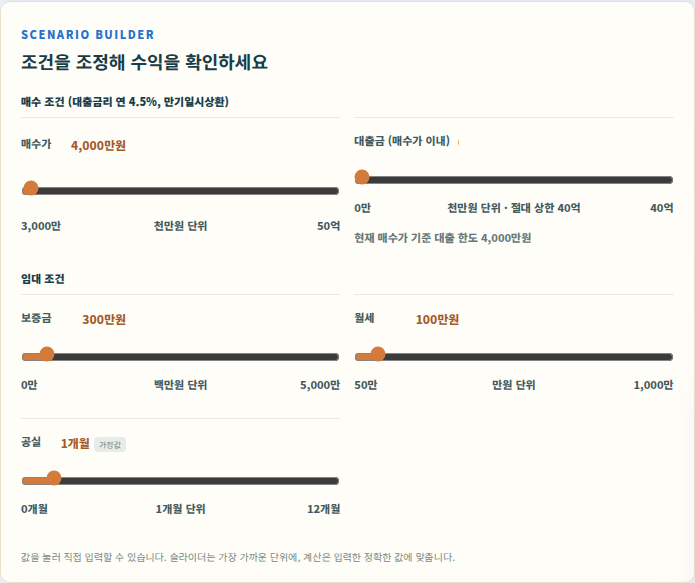
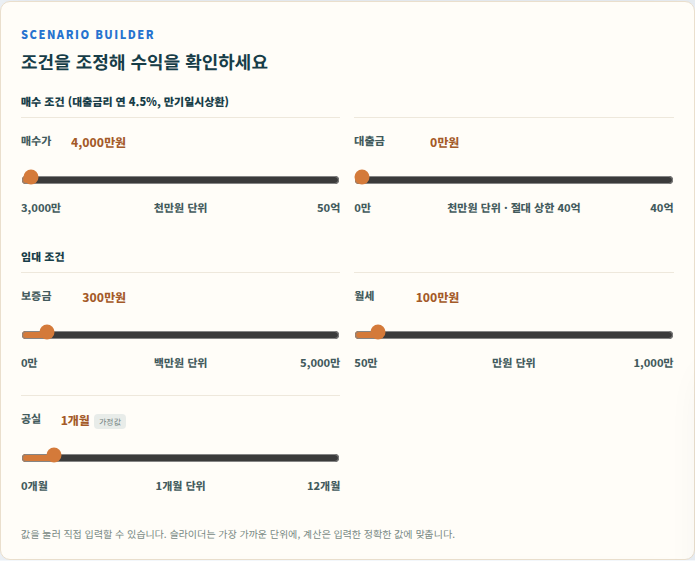
Refactor slider analysis logic and update test assets
Replit-Commit-Author: Agent

diff --git a/static/js/rental-analysis.js b/static/js/rental-analysis.js
@@ -130,8 +130,7 @@
   }
   function clampRentalValue(field, value) {
     var kind = rentalHardKind(field);
-    return kind ? window.analysisSliderUtils.clampHard(kind, value,
-      field === "rentalLoanAmount" ? n("rentalPurchasePrice") : undefined) : Number(value);
+    return kind ? window.analysisSliderUtils.clampHard(kind, value) : Number(value);
   }
   function setRentalInputError(field, message) {
     var error = document.querySelector('[data-rental-input-error="' + field + '"]');
@@ -141,7 +140,7 @@
   }
   function rentalInputErrorMessage(field) {
     if (field === "rentalMonthlyRent") return "월세는 1~1,000만원 범위로 입력하세요";
-    if (field === "rentalLoanAmount") return "대출금은 매수가 이내·절대 상한 40억으로 입력하세요.";
+    if (field === "rentalLoanAmount") return "대출금은 0~40억 범위로 입력하세요.";
     return "입력값이 허용 범위를 벗어났습니다.";
   }
   function rentalLimitText(field, value) {
@@ -194,29 +193,6 @@
       : PRICE_SLIDER_KNEE + (tick - LOAN_SLIDER_KNEE)
         / (LOAN_SLIDER_TICKS - LOAN_SLIDER_KNEE) * (LOAN_SLIDER_CAP - PRICE_SLIDER_KNEE);
     return Math.round(amount / 1000) * 1000;
-  }
-  function updateLoanCapNote() {
-    var note = document.querySelector("[data-rental-loan-cap]");
-    if (note) note.textContent = n("rentalPurchasePrice") > 0
-      ? "현재 매수가 기준 대출 한도 " + rentalLimitText("rentalLoanAmount", loanMaximum()) + "원"
-      : "";
-  }
-  function limitLoanAfterPurchaseChange() {
-    var cap = loanMaximum();
-    if (n("rentalLoanAmount") <= cap) return;
-    $("rentalLoanAmount").value = String(cap);
-    lastValidRentalInputs.rentalLoanAmount = cap;
-    var range = sliderInputs.rentalLoanAmount;
-    if (range) {
-      range.value = String(loanSliderPosition(cap));
-      range.setAttribute("aria-valuetext", formatInputValue("rentalLoanAmount", cap));
-    }
-    var button = document.querySelector('[data-rental-value="rentalLoanAmount"]');
-    if (button && !button.querySelector("input")) {
-      button.textContent = formatInputValue("rentalLoanAmount", cap);
-    }
-    setRentalInputError("rentalLoanAmount",
-      "매수가가 낮아져 대출금을 " + rentalLimitText("rentalLoanAmount", cap) + "원으로 조정했습니다.");
   }
   function updateRentalLimitLabels(bounds) {
     Object.keys(bounds).forEach(function (field) {
@@ -310,7 +286,6 @@
     var utils = window.analysisSliderUtils;
     if (!utils) throw new Error("공통 슬라이더 설정을 불러오지 못했습니다.");
     var purchase = purchaseBounds();
-    var purchaseValue = n("rentalPurchasePrice");
     var depositMax = utils.HARD_CAPS.deposit[1];
     var rent = rentCenterBase == null ? null : utils.rentBounds(rentCenterBase);
     if (rent) {
@@ -320,21 +295,17 @@
     }
     return {
       rentalPurchasePrice: purchase,
-      rentalLoanAmount: purchase && purchaseValue > 0 ? {
+      rentalLoanAmount: {
         min: 0,
         max: LOAN_SLIDER_TICKS,
         step: 1,
-      } : null,
-      rentalDeposit: purchase && purchaseValue > 0 ? {
+      },
+      rentalDeposit: purchase && n("rentalPurchasePrice") > 0 ? {
         min: 0, max: depositMax, step: 100,
       } : null,
       rentalMonthlyRent: rent,
       rentalVacancyMonths: { min: 0, max: 12, step: 1 },
     };
-  }
-  function loanMaximum() {
-    var purchase = n("rentalPurchasePrice");
-    return Math.max(0, Math.min(purchase, 400000));
   }
   function syncSliderBounds(expandField, skipField) {
     var utils = window.analysisSliderUtils;
@@ -343,9 +314,7 @@
       "rentalVacancyMonths", "rentalLoanAmount"].forEach(function (field) {
       var value = $(field).value;
       if (value !== "" && clampRentalValue(field, value) == null) {
-        var corrected = field === "rentalLoanAmount" && n("rentalPurchasePrice") > 0
-          ? Math.min(Number(value), loanMaximum())
-          : lastValidRentalInputs[field];
+        var corrected = lastValidRentalInputs[field];
         $(field).value = corrected == null ? "" : String(corrected);
         if (corrected != null) lastValidRentalInputs[field] = corrected;
       } else if (value !== "") {
@@ -380,14 +349,11 @@
         range.setAttribute("aria-valuetext", formatInputValue(field, amount));
       }
     });
-    var loanCap = loanMaximum();
-    if (n("rentalLoanAmount") > loanCap) $("rentalLoanAmount").value = String(loanCap);
     Object.keys(bounds).forEach(function (field) {
       var button = document.querySelector('[data-rental-value="' + field + '"]');
       if (button) button.textContent = formatInputValue(field, $(field).value);
     });
     updateRentalLimitLabels(bounds);
-    updateLoanCapNote();
     var buyHeading = document.querySelector("#rentalSliders .rental-buy-heading");
     if (buyHeading) buyHeading.textContent = "매수 조건 (대출금리 연 " + formatInputValue("rate", n("rentalLoanRate")).replace("만원", "%")
       + ", " + $("rentalLoanMethod").selectedOptions[0].text + ")";
@@ -432,7 +398,6 @@
       var changedField = field;
       sliderChangeField = "";
       var dependentChange = changedField === "rentalPurchasePrice" || changedField === "rentalDeposit";
-      if (dependentChange) limitLoanAfterPurchaseChange();
       if (!directEntry && dependentChange) syncSliderBounds(null, changedField);
       updateRentalUrl();
       scheduleCalculate();
@@ -451,7 +416,6 @@
       + (field === "rentalVacancyMonths" ? '<i class="rental-assumption-badge" data-vacancy-assumption>가정값</i>' : '')
       + '</span></div><input class="rental-range" type="range" id="rentalSlider' + field.slice(6) + '" data-rental-slider="' + field + '" min="0" max="100" step="' + step + '" value="0" aria-label="' + label + '">'
       + '<span class="rental-range-limits" data-rental-limits="' + field + '"><span>—</span><small>' + units[field] + '</small><span>—</span></span>'
-      + (field === "rentalLoanAmount" ? '<span class="rental-loan-cap" data-rental-loan-cap></span>' : '')
       + '<span class="rental-slider-input-error" data-rental-input-error="' + field + '" role="alert" hidden></span></div>';
   }
   function setupRentalSliders() {
@@ -460,7 +424,7 @@
     host.innerHTML = '<div class="rental-panel-title"><div><span class="eyebrow">SCENARIO BUILDER</span><h3>조건을 조정해 수익을 확인하세요</h3></div></div>'
       + '<section class="rental-slider-group"><h3 class="rental-buy-heading">매수 조건</h3><div class="rental-slider-list">'
       + makeSliderRow("rentalPurchasePrice", "매수가", 1)
-      + makeSliderRow("rentalLoanAmount", "대출금 (매수가 이내)", 1000)
+      + makeSliderRow("rentalLoanAmount", "대출금", 1000)
       + '</div></section><section class="rental-slider-group"><h3>임대 조건</h3><div class="rental-slider-list">'
       + makeSliderRow("rentalDeposit", "보증금", 100)
       + makeSliderRow("rentalMonthlyRent", "월세", 1)
@@ -481,7 +445,7 @@
       var field = range.dataset.rentalSlider;
       delete invalidRentalUrlFields[field];
       var requested = field === "rentalLoanAmount"
-        ? Math.min(loanSliderAmount(range.value), Math.floor(loanMaximum() / 1000) * 1000)
+        ? loanSliderAmount(range.value)
         : field === "rentalPurchasePrice"
           ? purchaseSliderAmount(range.value, sliderBounds[field])
         : range.value;
@@ -509,8 +473,6 @@
       var valueButton = document.querySelector('[data-rental-value="' + field + '"]');
       if (valueButton) valueButton.textContent = formatInputValue(field, safeValue);
       if (field === "rentalPurchasePrice") {
-        limitLoanAfterPurchaseChange();
-        updateLoanCapNote();
         updateAcquisitionCosts();
         updateEstimatedTax();
       }
@@ -533,8 +495,7 @@
       input.enterKeyHint = "done";
       input.step = field === "rentalVacancyMonths" ? "0.5" : "1";
       input.min = hardKind === "loan" ? "0" : hardBounds ? String(hardBounds[0]) : "0";
-      input.max = hardKind === "loan" ? String(loanMaximum())
-        : hardBounds ? String(hardBounds[1]) : "";
+      input.max = hardBounds ? String(hardBounds[1]) : "";
       input.value = $(field).value;
       input.setAttribute("aria-label", field === "rentalVacancyMonths" ? "연간 공실 개월" : "금액(만원)");
       setRentalInputError(field, "");
@@ -564,7 +525,6 @@
           rentCenterEdited = true;
           if (field === "rentalVacancyMonths") vacancyAssumed = false;
           if (field === "rentalPurchasePrice") {
-            limitLoanAfterPurchaseChange();
             updateAcquisitionCosts();
             updateEstimatedTax();
           }
@@ -1458,8 +1418,7 @@
         return;
       }
       var kind = rentalHardKind(field);
-      var normalized = kind ? window.analysisSliderUtils.clampHard(kind, value,
-        field === "rentalLoanAmount" ? n("rentalPurchasePrice") : undefined)
+      var normalized = kind ? window.analysisSliderUtils.clampHard(kind, value)
         : Number.isFinite(Number(value)) && Number(value) >= 0 ? Number(value) : null;
       if (normalized == null) {
         invalidKeys.push(key);

diff --git a/tests/rental_redesign_browser_test.js b/tests/rental_redesign_browser_test.js
@@ -293,8 +293,9 @@ async function run() {
       && initial.sliders.rentalLoanAmount.max === 1000
       && initial.sliders.rentalLoanAmount.step === 1,
     `시세 5,000만원 매수가 가상 눈금·간격이 잘못되었습니다: ${JSON.stringify(initial.sliders.rentalPurchasePrice)}`);
-    expect((await page.locator("[data-rental-loan-cap]").textContent()).includes("4,000만원"),
-      "현재 매수가에 따른 대출 한도가 표시되지 않았습니다.");
+    expect(!await page.locator("[data-rental-loan-cap]").count()
+      && !(await page.locator('[data-rental-row="rentalLoanAmount"]').textContent()).includes("매수가 이내"),
+      "대출금에 매수가 이내 제한 안내가 남아 있습니다.");
     expect(initial.sliders.rentalDeposit.max === 5000 && initial.sliders.rentalDeposit.step === 100,
       `보증금 상한·간격이 잘못되었습니다: ${JSON.stringify(initial.sliders.rentalDeposit)}`);
     expect(initial.sliders.rentalMonthlyRent.min === 50
@@ -481,9 +482,9 @@ async function run() {
     expect(await page.locator('[data-rental-slider="rentalLoanAmount"]').getAttribute("aria-valuetext")
       === "1,000만원", "대출금 가로바의 천만원 단위 값과 접근성 안내가 맞지 않습니다.");
     await setValueFromLabel(page, "rentalLoanAmount", 4500);
-    expect(Number(await page.locator("#rentalLoanAmount").inputValue()) === 1000
-      && (await page.locator('[data-rental-input-error="rentalLoanAmount"]').textContent()).includes("매수가 이내"),
-    "매수가를 초과한 대출금 직접입력을 거부하고 이유를 표시해야 합니다.");
+    expect(Number(await page.locator("#rentalLoanAmount").inputValue()) === 4500
+      && !(await page.locator('[data-rental-input-error="rentalLoanAmount"]').textContent()),
+    "매수가보다 큰 대출금도 직접 입력할 수 있어야 합니다.");
     await page.waitForTimeout(400);
     await setValueFromLabel(page, "rentalLoanAmount", 1500);
     await page.waitForFunction(() => window.__rentalAnalysisResult?.loan === 1500);
@@ -504,7 +505,7 @@ async function run() {
       max: document.querySelector('[data-rental-slider="rentalLoanAmount"]').max,
     }));
     expect(JSON.stringify(loanAfterPurchaseDrag) === JSON.stringify(loanBeforePurchaseDrag),
-      `매수가를 움직일 때 한도 이내의 대출금 바가 따라 움직였습니다: ${JSON.stringify({
+      `매수가를 움직일 때 대출금 바가 따라 움직였습니다: ${JSON.stringify({
         before: loanBeforePurchaseDrag, after: loanAfterPurchaseDrag,
       })}`);
     await setValueFromLabel(page, "rentalPurchasePrice", 4000);
@@ -529,15 +530,26 @@ async function run() {
     });
     await page.waitForTimeout(400);
     await setValueFromLabel(page, "rentalPurchasePrice", 2000);
-    const loanCap = await page.evaluate(() => ({
+    const independentLoan = await page.evaluate(() => ({
       purchase: Number(document.getElementById("rentalPurchasePrice").value),
       loan: Number(document.getElementById("rentalLoanAmount").value),
       max: Number(document.querySelector('[data-rental-slider="rentalLoanAmount"]').max),
     }));
-    expect(loanCap.purchase === 2000 && loanCap.loan === 2000 && loanCap.max === 1000,
-      `매입가 하향 시 대출 한도가 매수가 이내로 조정되지 않았습니다: ${JSON.stringify(loanCap)}`);
-    expect((await page.locator('[data-rental-input-error="rentalLoanAmount"]').textContent()).includes("매수가가 낮아져"),
-      "매수가 변경으로 대출금이 낮아진 이유를 표시해야 합니다.");
+    expect(independentLoan.purchase === 2000 && independentLoan.loan === 400000
+      && independentLoan.max === 1000,
+      `매입가 하향 시 대출금 40억이 유지되지 않았습니다: ${JSON.stringify(independentLoan)}`);
+    expect(!(await page.locator('[data-rental-input-error="rentalLoanAmount"]').textContent()),
+      "매수가 하향으로 대출 제한 오류가 표시되면 안 됩니다.");
+    await page.locator('[data-rental-slider="rentalLoanAmount"]').evaluate((element) => {
+      element.value = "333";
+      element.dispatchEvent(new Event("input", { bubbles: true }));
+      element.dispatchEvent(new Event("change", { bubbles: true }));
+    });
+    expect(Number(await page.locator("#rentalPurchasePrice").inputValue()) === 2000
+      && Number(await page.locator("#rentalLoanAmount").inputValue()) === 50000
+      && await page.locator('[data-rental-slider="rentalLoanAmount"]').getAttribute("aria-valuetext") === "5억원"
+      && await page.locator('[data-rental-value="rentalLoanAmount"]').textContent() === "5억원",
+    "매수가 2,000만원이어도 대출금 바의 1/3 지점에서 5억원을 선택·표시해야 합니다.");
 
     const vacancySlider = page.locator('[data-rental-slider="rentalVacancyMonths"]');
     await vacancySlider.evaluate((element) => {
@@ -750,6 +762,18 @@ async function run() {
       && Number(await purchaseTrack.inputValue()) > 300
       && await purchaseTrack.getAttribute("max") === "900",
     "정확한 매수가 직접입력은 유지하고 바 위치만 5억 이후 구간에 맞춰야 합니다.");
+    await setValueFromLabel(page, "rentalLoanAmount", 400001);
+    expect(Number(await page.locator("#rentalLoanAmount").inputValue()) === 400000
+      && (await page.locator('[data-rental-input-error="rentalLoanAmount"]').textContent()).includes("40억"),
+    "대출금 직접입력은 40억까지만 허용해야 합니다.");
+    const independentUrl = new URL(firstUrl);
+    independentUrl.searchParams.set("r_loan", "50000");
+    await page.goto(independentUrl.toString(), { waitUntil: "domcontentloaded" });
+    await waitForRental(page);
+    expect(Number(await page.locator("#rentalPurchasePrice").inputValue()) === 4000
+      && Number(await page.locator("#rentalLoanAmount").inputValue()) === 50000
+      && Number(await page.locator('[data-rental-slider="rentalLoanAmount"]').inputValue()) === 333,
+    "공유 링크에서도 매수가보다 큰 대출금 5억원이 복원되어야 합니다.");
     if (failures.length) throw new Error(`임대수익 개편 회귀 실패:\n- ${failures.join("\n- ")}`);
     console.log("임대수익 개편 브라우저 회귀 테스트 통과");
   } finally {

diff --git a/tests/slider_utils_test.js b/tests/slider_utils_test.js
@@ -40,6 +40,7 @@ assert.equal(utils.formatMan(32), "32만원");
 
 for (const [kind, min, max] of [
   ["purchase", 100, 500000],
+  ["loan", 0, 400000],
   ["deposit", 0, 5000],
   ["rent", 1, 1000],
   ["vacancy", 0, 12],
@@ -55,12 +56,8 @@ for (const [kind, min, max] of [
   assert.equal(utils.clampHard(kind, min - 1), null, `${kind} rejects below minimum`);
   assert.equal(utils.clampHard(kind, max + 1), null, `${kind} rejects above maximum`);
 }
-assert.equal(utils.clampHard("loan", 0, 5000), 0);
-assert.equal(utils.clampHard("loan", 5000, 5000), 5000);
-assert.equal(utils.clampHard("loan", 5001, 5000), null);
-assert.equal(utils.clampHard("loan", 400000, 500000), 400000);
-assert.equal(utils.clampHard("loan", 400001, 500000), null);
-assert.equal(utils.clampHard("loan", 1, 0), null);
+assert.equal(utils.clampHard("loan", 50000, 4000), 50000, "loan is independent of purchase");
+assert.equal(utils.clampHard("loan", 400000, 0), 400000);
 for (const invalid of ["", null, undefined, "NaN", "Infinity", -Infinity, NaN]) {
   assert.equal(utils.clampHard("rent", invalid), null, `rent rejects ${String(invalid)}`);
 }

diff --git a/static/js/slider-utils.js b/static/js/slider-utils.js
@@ -3,6 +3,7 @@
 
   var HARD_CAPS = Object.freeze({
     purchase: Object.freeze([100, 500000]),
+    loan: Object.freeze([0, 400000]),
     deposit: Object.freeze([0, 5000]),
     rent: Object.freeze([1, 1000]),
     vacancy: Object.freeze([0, 12]),
@@ -12,8 +13,8 @@
     mgmtFee: Object.freeze([0, 50]),
   });
 
-  function clampHard(kind, value, purchasePrice) {
-    var bounds = kind === "loan" ? [0, Math.min(400000, Number(purchasePrice))] : HARD_CAPS[kind];
+  function clampHard(kind, value) {
+    var bounds = HARD_CAPS[kind];
     if (!bounds) throw new Error("알 수 없는 슬라이더 항목: " + kind);
     if (value === "" || value === null || value === undefined) return null;
     var parsed = Number(value);

diff --git a/.agents/memory/analysis-slider-input-gates.md b/.agents/memory/analysis-slider-input-gates.md
@@ -15,17 +15,11 @@ description: 임대·운영 분석의 URL 복원 상한과 월세 중심 고정 
 
 **How to apply:** 종속 슬라이더 갱신과 범위 중심 갱신을 별도 이벤트로 취급하고, 반복 드래그·매수가 변경 회귀 테스트를 유지한다.
 
-대출금은 표시된 절대 상한보다 매수가가 작으면 매수가까지만 선택·입력할 수 있다.
+임대·운영 분석의 한 가로바를 움직일 때 다른 가로바의 값과 범위는 유지한다. 특히 대출금은 매수가와 독립적으로 0~40억까지 허용한다.
 
-**Why:** 사용자가 절대 상한을 표시하면서도 매수가 미만일 때에는 대출금을 매수가 이내로 제한하는 방식을 명시적으로 선택했다.
+**Why:** 사용자가 가로바 간 자동 영향을 없애달라고 요청했으며, 대출금이 5억 눈금에서 매수가 때문에 잘리는 것을 보고 매수가 이내 조건 폐지를 명시했다.
 
-**How to apply:** 슬라이더의 물리적 눈금은 40억 절대 상한에 고정하고 낮은 금액에서도 조작 가능하도록 비선형 배치한다. 현재 매수가에 따른 실제 선택 한도는 별도 안내하며 슬라이더·직접입력·복원 모두 같은 유효 한도를 적용한다.
-
-임대·운영 분석의 한 가로바를 움직일 때 다른 가로바의 값과 범위는 유지한다. 단, 임대 매수가를 이미 설정된 대출금 아래로 낮추면 확인된 ‘대출금은 매수가 이내’ 제약을 우선 적용한다.
-
-**Why:** 사용자가 두 분석 모두에서 가로바 간 자동 영향을 없애달라고 요청했으며, 대출 상한의 예외는 따로 확정했다.
-
-**How to apply:** 새 종속 계산을 넣더라도 다른 조절기의 범위 중심·값을 재설정하지 말고, 계산 결과만 갱신한다. 대출금이 실제로 새 매수가를 초과할 때만 제한하고 그 이유를 사용자에게 안내한다. 바 간 독립성과 대출 제약을 함께 회귀 검증한다.
+**How to apply:** 슬라이더·직접입력·공유 링크 복원에서 대출금을 같은 절대 상한으로만 검증한다. 매수가를 낮춰도 대출금은 변경하지 않으며, 실투자금이 0 이하라면 계산불가로 표시하는 기존 계산 처리를 유지한다.
 
 숙박운영 ADR 바는 1만~200만원을 허용하되, 1만~10만원 구간에 바 길이의 약 1/3을 배정한다. 실제 분석값과 공유값은 원 단위로 유지하고 바에서만 1만원 단위로 선택한다.
 
@@ -33,8 +27,8 @@ description: 임대·운영 분석의 URL 복원 상한과 월세 중심 고정 
 
 **How to apply:** ADR 눈금은 10만원을 고정 전환점으로 하는 두 구간으로 매핑한다. 직접 입력·원본 업로드·URL 복원의 정확한 금액을 바 위치로 반올림하더라도 원래 분석값을 바꾸지 않는다.
 
-임대 매수가·대출금 가로바는 각자의 최솟값부터 5억원까지를 눈금 길이의 약 1/3에 배정하고, 나머지 구간을 각자의 기존 절대 상한까지 배정한다. 매수가의 표시 최솟값은 시세 기반으로 변하고 대출금은 매수가 이내로 제한하지만, 물리적 대출금 눈금은 40억원에 고정한다.
+임대 매수가·대출금 가로바는 각자의 최솟값부터 5억원까지를 눈금 길이의 약 1/3에 배정하고, 나머지 구간을 각자의 기존 절대 상한까지 배정한다. 매수가의 표시 최솟값은 시세 기반으로 변하고 대출금 눈금은 0~40억원에 고정한다.
 
 **Why:** 50억·40억의 전체 구간을 균등하게 배치하면 5억원 이하를 조절하기 어렵다는 사용자 요청이 있었다.
 
-**How to apply:** 눈금 위치만 금액으로 왕복 변환하며 시나리오·URL·계산은 만원 단위 실제 값을 유지한다. 직접입력의 정확한 금액을 눈금 단위로 덮어쓰지 않고, 대출 한도와 다른 슬라이더 독립성을 유지한다.
+**How to apply:** 눈금 위치만 금액으로 왕복 변환하며 시나리오·URL·계산은 만원 단위 실제 값을 유지한다. 직접입력의 정확한 금액을 눈금 단위로 덮어쓰지 않고 다른 슬라이더 독립성을 유지한다.
